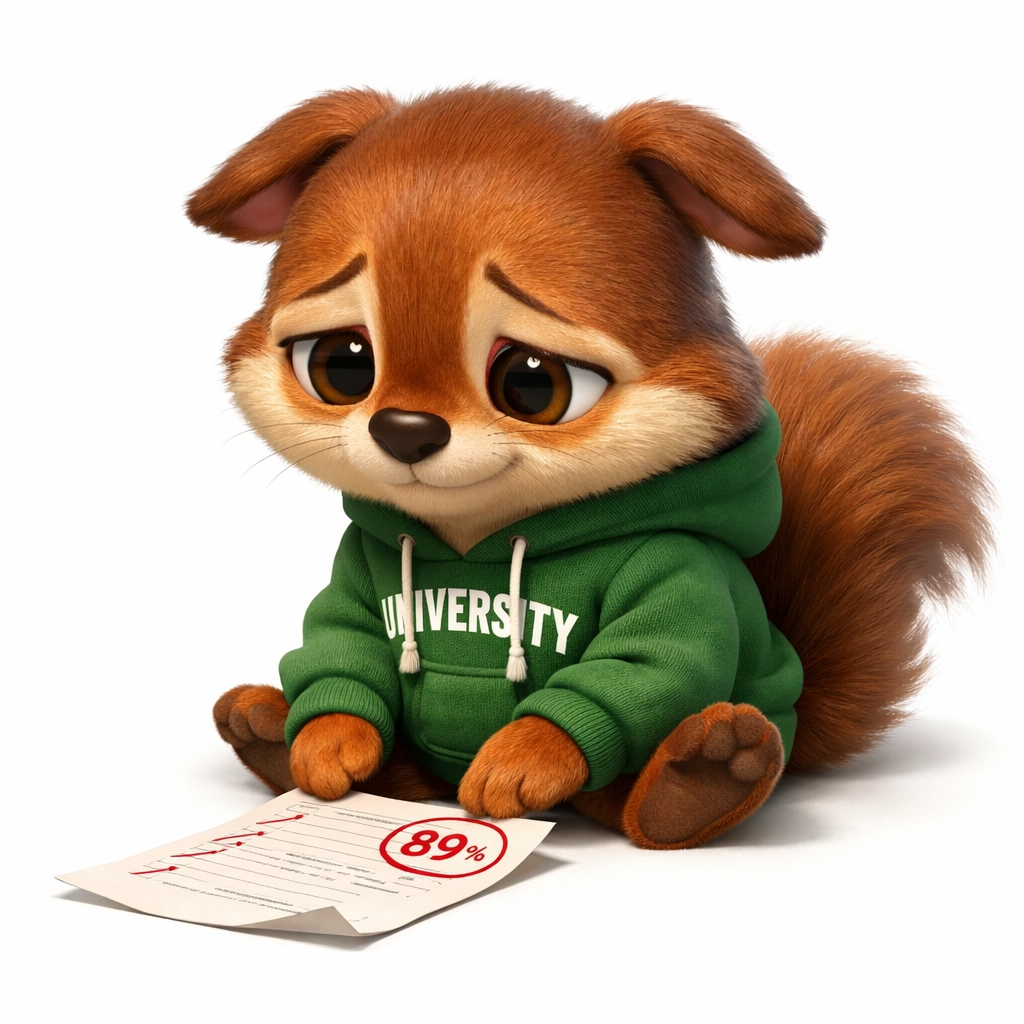
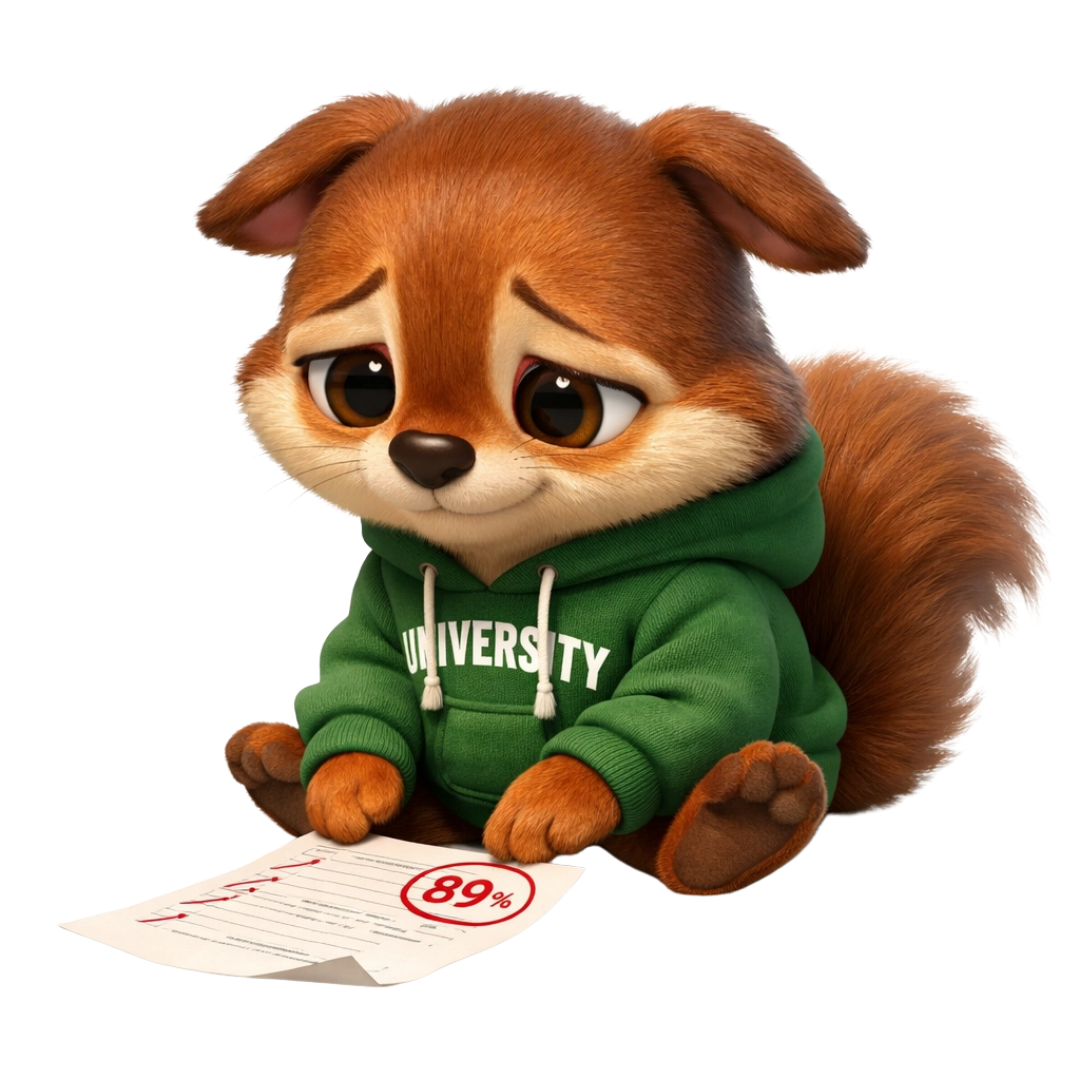
v3.1 — Mascotes com fundo transparente
- 10 mascotes substituídos por versões sem fundo (transparent PNG)
- PWA icons regenerados do novo main.png
- Imagens integram perfeitamente com qualquer background
- Qualidade visual significativamente melhorada

diff --git a/src/app/page.tsx b/src/app/page.tsx
@@ -289,24 +289,22 @@ export default function Home() {
         </div>
       </div>
 
-      {/* Quick actions */}
+      {/* Quick actions — consistent SVG icons */}
       <div style={{ padding: '0 20px', marginBottom: '20px' }}>
         <h2 style={{ fontSize: '1rem', fontWeight: 800, marginBottom: '12px' }}>Explorar</h2>
         <div style={{ display: 'grid', gridTemplateColumns: '1fr 1fr 1fr', gap: '10px' }}>
           {[
-            { href: '/simulado', icon: '/mascot/card_simulados.png', label: 'Simulados', sub: 'TOEFL Real' },
-            { href: '/badges', icon: '/mascot/card_conquistas.png', label: 'Conquistas', sub: `${getTotalBadgesEarned()}/${getTotalBadges()}` },
-            { href: '/progress', icon: '/mascot/card_progresso.png', label: 'Progresso', sub: 'Detalhado' },
-            { href: '/integrated', icon: '🔗', label: 'Integrated', sub: 'Ler+Ouvir+Escrever' },
-            { href: '/review', icon: '📅', label: 'Review', sub: 'Semanal' },
-            { href: '/monthly', icon: '🎯', label: 'Nota TOEFL', sub: 'Estimada' },
+            { href: '/simulado', color: '#5B9BD5', bg: '#E3F2FD', label: 'Simulados', sub: 'TOEFL' },
+            { href: '/badges', color: '#FFC107', bg: '#FFF8E1', label: 'Conquistas', sub: `${getTotalBadgesEarned()}/${getTotalBadges()}` },
+            { href: '/integrated', color: '#9B59B6', bg: '#F3E5F5', label: 'Integrated', sub: 'Ler+Ouvir' },
+            { href: '/review', color: '#FF7043', bg: '#FBE9E7', label: 'Review', sub: 'Semanal' },
+            { href: '/monthly', color: '#8CB369', bg: '#F0F7EA', label: 'Nota TOEFL', sub: 'Estimada' },
+            { href: '/progress', color: '#3498DB', bg: '#E8F4FD', label: 'Progresso', sub: 'Detalhado' },
           ].map((item) => (
-            <Link key={item.href} href={item.href} className="jolingo-card" style={{ textDecoration: 'none', color: '#1A1A1A', textAlign: 'center', padding: '14px 8px' }}>
-              {item.icon.startsWith('/') ? (
-                <img src={item.icon} alt={item.label} style={{ width: '48px', height: '48px', objectFit: 'contain', margin: '0 auto 4px', display: 'block', borderRadius: '10px' }} />
-              ) : (
-                <div style={{ fontSize: '1.8rem', marginBottom: '4px' }}>{item.icon}</div>
-              )}
+            <Link key={item.href} href={item.href} className="jolingo-card tap-feedback" style={{ textDecoration: 'none', color: '#1A1A1A', textAlign: 'center', padding: '14px 8px' }}>
+              <div style={{ width: '40px', height: '40px', borderRadius: '12px', background: item.bg, display: 'flex', alignItems: 'center', justifyContent: 'center', margin: '0 auto 6px', border: `1px solid ${item.color}20` }}>
+                <div style={{ width: '8px', height: '8px', borderRadius: '50%', background: item.color }} />
+              </div>
               <p style={{ fontWeight: 700, fontSize: '0.75rem', margin: 0 }}>{item.label}</p>
               <p style={{ color: '#999', fontSize: '0.6rem', margin: 0 }}>{item.sub}</p>
             </Link>

diff --git a/src/app/globals.css b/src/app/globals.css
@@ -42,56 +42,8 @@ body {
   font-weight: 500;
 }
 
-/* Dark mode */
-@media (prefers-color-scheme: dark) {
-  :root {
-    --bg-main: #1A1A2E;
-    --bg-secondary: #16213E;
-    --bg-card: #1A1A2E;
-    --text-primary: #E8E8E8;
-    --text-secondary: #B0B0B0;
-    --text-muted: #808080;
-    --border: #2A2A4A;
-    --border-active: #8CB369;
-  }
-  body {
-    background: #1A1A2E;
-    color: #E8E8E8;
-  }
-  .jolingo-card {
-    background: #16213E;
-    border-color: #2A2A4A;
-  }
-  .jolingo-card:hover {
-    border-color: #8CB369;
-    box-shadow: 0 4px 12px rgba(140, 179, 105, 0.1);
-  }
-  .jolingo-nav {
-    background: #1A1A2E;
-    border-top-color: #2A2A4A;
-  }
-  .jolingo-stat {
-    background: #16213E;
-  }
-  input, textarea {
-    background: #16213E !important;
-    color: #E8E8E8 !important;
-    border-color: #2A2A4A !important;
-  }
-  .jolingo-progress {
-    background: #2A2A4A;
-  }
-}
-
-[data-theme="dark"] {
-  --bg-main: #1A1A2E;
-  --bg-secondary: #16213E;
-  --bg-card: #1A1A2E;
-  --text-primary: #E8E8E8;
-  --text-secondary: #B0B0B0;
-  --text-muted: #808080;
-  --border: #2A2A4A;
-}
+/* Dark mode — disabled until mascots have transparent backgrounds */
+/* Will be re-enabled in v4 with proper dark theme assets */
 
 * { -webkit-tap-highlight-color: transparent; }
 
